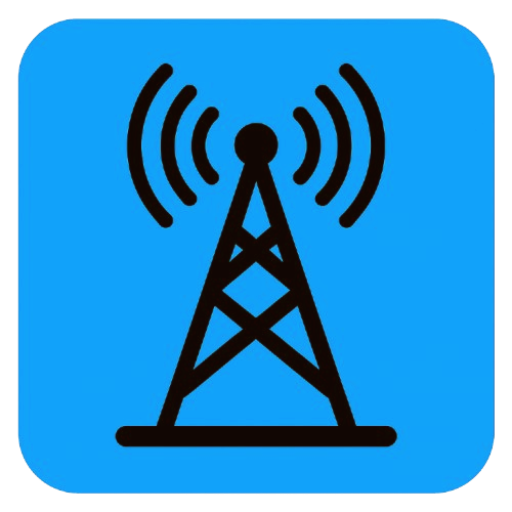
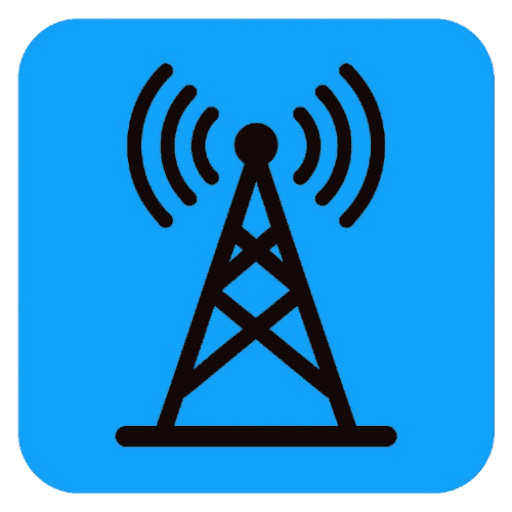
fix defaults

diff --git a/firmware/data/sw.js b/firmware/data/sw.js
@@ -1,11 +1,29 @@
 // Service worker for UberSDR Antenna Switch PWA.
-// Strategy: network-first, no caching.
-// This is a local device app — we always want the live page, never a stale cache.
-// The service worker exists solely to satisfy the PWA installability requirement.
+//
+// Strategy:
+//   - Static assets (icons, manifest, favicon) are cached on install and served
+//     from cache on subsequent loads — the ESP8266 only serves them once.
+//   - Everything else (the app page, all /api/* calls) is network-first so the
+//     UI always reflects live device state. Falls back to an offline message if
+//     the device is unreachable.
 
-const CACHE_NAME = "ubersdr-v1";
+const CACHE_NAME = "ubersdr-v2";
+
+// Static assets that never change between firmware updates.
+// Cached on SW install so the ESP8266 is not hit on every page load.
+const STATIC_ASSETS = [
+  "/favicon.ico",
+  "/icon-192.png",
+  "/icon-512.png",
+  "/manifest.json"
+];
 
 self.addEventListener("install", function(e) {
+  e.waitUntil(
+    caches.open(CACHE_NAME).then(function(cache) {
+      return cache.addAll(STATIC_ASSETS);
+    })
+  );
   // Skip waiting so the SW activates immediately.
   self.skipWaiting();
 });
@@ -25,8 +43,20 @@ self.addEventListener("activate", function(e) {
 });
 
 self.addEventListener("fetch", function(e) {
-  // Always go to the network. If the network fails (device offline/rebooting),
-  // return a simple offline message rather than a cached stale page.
+  var url = new URL(e.request.url);
+
+  // Serve static assets from cache (cache-first).
+  if(STATIC_ASSETS.indexOf(url.pathname) !== -1) {
+    e.respondWith(
+      caches.match(e.request).then(function(cached) {
+        return cached || fetch(e.request);
+      })
+    );
+    return;
+  }
+
+  // Everything else: network-first. If the network fails (device offline /
+  // rebooting), return a simple offline message rather than a stale page.
   e.respondWith(
     fetch(e.request).catch(function() {
       return new Response(

diff --git a/firmware/data/app.html b/firmware/data/app.html
@@ -960,6 +960,9 @@
     if(typeof s.max === "number") maxAnt = s.max;
     if(s.names && typeof s.names === "object") names = s.names;
     if(s.time) clockSync(s.time);
+    if(typeof s.tz_offset === "number") _tzOffsetMin = s.tz_offset;
+    if(s.startup_port_mode !== undefined) startupPortMode = s.startup_port_mode;
+    if(typeof s.default_port === "number") defaultPort = s.default_port;
 
     document.getElementById("curLabel").textContent = s.label || (s.ground ? "GROUND" : "ANT: " + s.position);
     document.getElementById("maxVal").textContent = maxAnt;
@@ -1809,23 +1812,9 @@
     }
   };
 
-  // Boot: load timezone offset immediately so the clock shows the right zone
-  // before the user opens settings. The status poll also carries tz_offset so
-  // it stays in sync after a save.
-  api("/api/ntp").then(function(n){
-    if(typeof n.tz_offset === "number") _tzOffsetMin = n.tz_offset;
-  }).catch(function(){});
-
-  // Boot: load startup port mode and default port so stars render correctly on first paint.
-  api("/api/startup-port").then(function(d){
-    startupPortMode = d.mode || "default";
-    return api("/api/default-port");
-  }).then(function(d){
-    if(typeof d.default_port === "number") defaultPort = d.default_port;
-    highlight();
-  }).catch(function(){});
-
   // Boot + poll every 3s to reflect physical-button / OLED changes.
+  // tz_offset, startup_port_mode and default_port are included in /api/status
+  // so render() keeps them in sync without separate boot fetches.
   refresh();
   setInterval(refresh, 3000);
   // Clock ticks every second (locally, no extra requests).

diff --git a/firmware/src/main.cpp b/firmware/src/main.cpp
@@ -252,9 +252,27 @@ static String readAsset(const char *path) {
 }
 
 // Serve a LittleFS file by streaming it directly to the client — no heap copy.
-// This is essential for large files like app.html (36 KB) on a device with 80 KB RAM.
+// Serve a LittleFS asset, preferring a pre-compressed .gz sibling if present.
+// The build step (build.sh compress_assets) produces e.g. app.html.gz alongside
+// app.html; both are packed into the LittleFS image. Serving the .gz copy with
+// Content-Encoding: gzip lets the browser decompress transparently and cuts the
+// transfer size of app.html from ~84 KB to ~20 KB.
+//
+// NOTE: ESP8266WebServer::streamFile() detects filenames ending in ".gz" and
+// automatically adds "Content-Encoding: gzip" — do NOT add it manually or the
+// header will be duplicated and the browser will reject the response.
 static void servePortalAsset(const char *path, const char *mime = "text/html") {
-    File f = LittleFS.open(path, "r");
+    // Try the pre-compressed version first.
+    // streamFile() sees the ".gz" suffix and sets Content-Encoding automatically.
+    String gzPath = String(path) + ".gz";
+    File f = LittleFS.open(gzPath, "r");
+    if (f) {
+        g_portal.streamFile(f, mime);
+        f.close();
+        return;
+    }
+    // Fall back to the uncompressed file.
+    f = LittleFS.open(path, "r");
     if (!f) {
         g_portal.send(200, "text/html",
             F("<html><body><h1>ESP</h1><p>Filesystem image not uploaded.<br>"
@@ -307,7 +325,7 @@ static void serveAntennaPage() {
 // Build the JSON status object shared by every API response.
 static String apiStatusJson() {
     String j;
-    j.reserve(360);
+    j.reserve(440);
     j += F("{\"position\":");
     j += String(g_ant.position());
     j += F(",\"label\":\"");
@@ -370,6 +388,10 @@ static String apiStatusJson() {
     j += g_ntp.localIsoNow(g_settings.tzOffsetMinutes());
     j += F("\",\"tz_offset\":");
     j += String((int)g_settings.tzOffsetMinutes());
+    j += F(",\"startup_port_mode\":\"");
+    j += (g_settings.startupPortMode() == 1 ? F("last") : F("default"));
+    j += F("\",\"default_port\":");
+    j += String(g_settings.defaultPort());
     j += F("}");
     return j;
 }